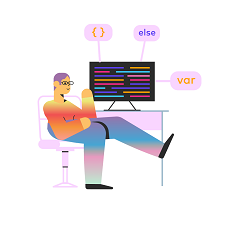
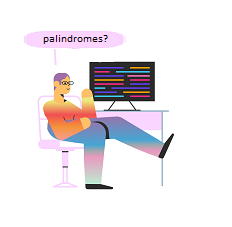
Error Tracker Modal Complete

Changed region(s): [[0.0905, 0.0925, 0.5431, 0.2775], [0.6638, 0.3084, 0.875, 0.4009], [0.5733, 0.0925, 0.694, 0.2775]]

diff --git a/portfolio/Index.html b/portfolio/Index.html
@@ -162,7 +162,7 @@
                 <div class="row portfolio-container" data-aos="fade-up" data-aos-delay="100">
 
                     <div class="col-lg-3 col-md-6 portfolio-item filter-app">
-                        <div id="error-tracker" class="portfolio-wrap project-card" data-toggle="modal" data-target="#myModal">
+                        <div id="error-tracker" class="portfolio-wrap project-card" data-toggle="modal" data-target="#error-tracker-modal">
                             <img src="Assets/Projects/404error.png" class="project-img mx-auto" />
                             <div class="portfolio-links">
                                 <p class="h4">Error Tracker</p>
@@ -202,7 +202,6 @@
             </div>
         </section>
         <!-- End Projects Section -->
-
         <!-- Start Coding Challenges Section -->
         <section id="challenges" class="portfolio challenges">
             <div class="container">
@@ -254,32 +253,31 @@
                 </div>
 
                 <!--<div class="row">
-                    
 
-                    <div class="col-lg-4 col-md-6 portfolio-item filter-card challenge">
-                        <div class="portfolio-wrap">
-                            <img src="Assets/Challenges/challenge5.png" />
-                            <div class="portfolio-links">
-                                <a href="Assets/portfolio-8.jpg" data-gall="portfolioGallery" class="venobox" title="Card 3"><i class="bx bx-plus"></i></a>
-                                <a href="portfolio-details.html" title="More Details"><i class="bx bx-link"></i></a>
-                            </div>
+
+                <div class="col-lg-4 col-md-6 portfolio-item filter-card challenge">
+                    <div class="portfolio-wrap">
+                        <img src="Assets/Challenges/challenge5.png" />
+                        <div class="portfolio-links">
+                            <a href="Assets/portfolio-8.jpg" data-gall="portfolioGallery" class="venobox" title="Card 3"><i class="bx bx-plus"></i></a>
+                            <a href="portfolio-details.html" title="More Details"><i class="bx bx-link"></i></a>
                         </div>
                     </div>
+                </div>
 
-                    <div class="col-lg-4 col-md-6 portfolio-item filter-web challenge">
-                        <div class="portfolio-wrap">
-                            <img src="Assets/Challenges/challenge6.png" />
-                            <div class="portfolio-links">
-                                <a href="Assets/portfolio-9.jpg" data-gall="portfolioGallery" class="venobox" title="Web 3"><i class="bx bx-plus"></i></a>
-                                <a href="portfolio-details.html" title="More Details"><i class="bx bx-link"></i></a>
-                            </div>
+                <div class="col-lg-4 col-md-6 portfolio-item filter-web challenge">
+                    <div class="portfolio-wrap">
+                        <img src="Assets/Challenges/challenge6.png" />
+                        <div class="portfolio-links">
+                            <a href="Assets/portfolio-9.jpg" data-gall="portfolioGallery" class="venobox" title="Web 3"><i class="bx bx-plus"></i></a>
+                            <a href="portfolio-details.html" title="More Details"><i class="bx bx-link"></i></a>
                         </div>
                     </div>
-                </div>-->
+                </div>
+            </div>-->
             </div>
         </section>
         <!-- End Coding Challenges Sections -->
-
         <!-- ======= Resume Section ======= -->
         <section id="resume" class="resume section-bg">
             <div class="container">
@@ -348,7 +346,6 @@
             </div>
         </section>
         <!-- End Resume Section -->
-
         <!-- ======= Blog Section ======= -->
         <section id="blog" class="" data-aos="fade-up" data-aos-delay="100">
             <div class="container">
@@ -360,7 +357,7 @@
                     <div class="card blog-card">
                         <a href="https://docs.google.com/document/d/1to9F7hdDQf2YOPwXxf7ndGSJADn3jFxxKGRUhGVuT_M/edit?usp=sharing" target="_blank">
                             <div class="card-body">
-                                <img src="Assets/Blog/html-illustration.png" class="blog-img mx-auto"/>
+                                <img src="Assets/Blog/html-illustration.png" class="blog-img mx-auto" />
                                 <h5 class="card-title">First Stop on the Web Dev Train</h5>
                                 <p class="card-text">
                                     The acronym stands for Hyper Text Markup Language, and it is the primary language that you will be using to create websites. It is not a programming language, but rather a “markup” language...
@@ -371,7 +368,7 @@
                     <div class="card blog-card">
                         <a href="https://docs.google.com/document/d/1maM3_3bLRbXPtMet39iItzMnZKhI-Wx2Yyxe9zGpUC0/edit?usp=sharing" target="_blank">
                             <div class="card-body">
-                                <img src="Assets/Blog/bootstrap-icon.png" class="blog-img mx-auto"/>
+                                <img src="Assets/Blog/bootstrap-icon.png" class="blog-img mx-auto" />
                                 <h5 class="card-title">Bootstrap is not about strapping boots</h5>
                                 <p class="card-text">
                                     Bootstrap is a CSS Framework for developing responsive and mobile-first websites. A framework is basically just a library of code, which someone else wrote, and which you can use...
@@ -380,46 +377,46 @@
                         </a>
                     </div>
                     <!--<div class="card blog-card">
-                        <img src="" class="card-img-top" alt="...">
-                        <div class="card-body">
-                            <h5 class="card-title">Card title</h5>
-                            <p class="card-text">This is a wider card with supporting text below as a natural lead-in to additional content. This card has even longer content than the first to show that equal height action.</p>
-                            <p class="card-text"><small class="text-muted">Last updated 3 mins ago</small></p>
-                        </div>
-                    </div>-->
-                </div>
-                <!--<div class="card-deck blog-cards">
-                    <div class="card blog-card">
-                        <a href="https://docs.google.com/document/d/1to9F7hdDQf2YOPwXxf7ndGSJADn3jFxxKGRUhGVuT_M/edit?usp=sharing" target="_blank">
-                            <div class="card-body">
-                                <img src="Assets/Blog/html-illustration.png" />
-                                <h5 class="card-title">What is HTML?</h5>
-                                <p class="card-text">
-                                    The acronym stands for Hyper Text Markup Language, and it is the primary language that you will be using to create websites. It is not a programming language, but rather a “markup” language...
-                                </p>
-                            </div>
-                        </a>
-                    </div>
-                    <div class="card blog-card">
-                        <a href="https://docs.google.com/document/d/1maM3_3bLRbXPtMet39iItzMnZKhI-Wx2Yyxe9zGpUC0/edit?usp=sharing" target="_blank">
-                            <div class="card-body">
-                                <img src="Assets/Blog/bootstrap-icon.png" />
-                                <h5 class="card-title">Bootstrap Basics</h5>
-                                <p class="card-text">
-                                    Bootstrap is a CSS Framework for developing responsive and mobile-first websites. A framework is basically just a library of code, which someone else wrote, and which you can use...
-                                </p>
-                            </div>
-                        </a>
-                    </div>
-                    <div class="card blog-card">
-                        <img src="" class="card-img-top" alt="...">
-                        <div class="card-body">
-                            <h5 class="card-title">Card title</h5>
-                            <p class="card-text">This is a wider card with supporting text below as a natural lead-in to additional content. This card has even longer content than the first to show that equal height action.</p>
-                            <p class="card-text"><small class="text-muted">Last updated 3 mins ago</small></p>
-                        </div>
+                    <img src="" class="card-img-top" alt="...">
+                    <div class="card-body">
+                        <h5 class="card-title">Card title</h5>
+                        <p class="card-text">This is a wider card with supporting text below as a natural lead-in to additional content. This card has even longer content than the first to show that equal height action.</p>
+                        <p class="card-text"><small class="text-muted">Last updated 3 mins ago</small></p>
                     </div>
                 </div>-->
+                </div>
+                <!--<div class="card-deck blog-cards">
+                <div class="card blog-card">
+                    <a href="https://docs.google.com/document/d/1to9F7hdDQf2YOPwXxf7ndGSJADn3jFxxKGRUhGVuT_M/edit?usp=sharing" target="_blank">
+                        <div class="card-body">
+                            <img src="Assets/Blog/html-illustration.png" />
+                            <h5 class="card-title">What is HTML?</h5>
+                            <p class="card-text">
+                                The acronym stands for Hyper Text Markup Language, and it is the primary language that you will be using to create websites. It is not a programming language, but rather a “markup” language...
+                            </p>
+                        </div>
+                    </a>
+                </div>
+                <div class="card blog-card">
+                    <a href="https://docs.google.com/document/d/1maM3_3bLRbXPtMet39iItzMnZKhI-Wx2Yyxe9zGpUC0/edit?usp=sharing" target="_blank">
+                        <div class="card-body">
+                            <img src="Assets/Blog/bootstrap-icon.png" />
+                            <h5 class="card-title">Bootstrap Basics</h5>
+                            <p class="card-text">
+                                Bootstrap is a CSS Framework for developing responsive and mobile-first websites. A framework is basically just a library of code, which someone else wrote, and which you can use...
+                            </p>
+                        </div>
+                    </a>
+                </div>
+                <div class="card blog-card">
+                    <img src="" class="card-img-top" alt="...">
+                    <div class="card-body">
+                        <h5 class="card-title">Card title</h5>
+                        <p class="card-text">This is a wider card with supporting text below as a natural lead-in to additional content. This card has even longer content than the first to show that equal height action.</p>
+                        <p class="card-text"><small class="text-muted">Last updated 3 mins ago</small></p>
+                    </div>
+                </div>
+            </div>-->
             </div>
         </section>
         <!-- End Blog Section -->
@@ -554,8 +551,7 @@
             </div>
         </section>
         <!-- End Contact Section -->
-
-        <!-- The Modal -->
+        <!-- Start Generic Modal -->
         <div class="modal" id="myModal">
             <div class="modal-dialog modal-xl modal-dialog-centered">
                 <div class="modal-content">
@@ -579,7 +575,50 @@
                 </div>
             </div>
         </div>
-        <!-- End Modal -->
+        <!-- End Generic Modal -->
+        <!-- Start Error Tracker Model -->
+        <div class="modal" id="error-tracker-modal">
+            <div class="modal-dialog modal-xl modal-dialog-centered">
+                <div class="modal-content">
+
+                    <!-- Modal Header -->
+                    <div class="modal-header text-center">
+                        <h4 class="modal-title">Error Tracker</h4>
+                        <button type="button" class="btn btn-danger" data-dismiss="modal">&times;</button>
+                    </div>
+
+                    <div class="modal-body">
+                        <div class="container-fluid">
+                            <div class="row project-modal">
+                                <div class="col-3">
+                                    <img src="../Assets/Projects/404error.png" />
+                                </div>
+                                <div class="col">
+                                    <div class="row project-description">
+                                        <p>
+                                            This site will track your web development process from planning, through development, and finally the product.
+                                        </p>
+                                    </div>
+                                    <div class="row project-technologies">
+                                        <b>Technologies Used:</b><pre> HTML5, CSS, JS, C#, SQL, .NET</pre>
+                                    </div>
+                                    <div class="row project-links">
+                                        <div class="col text-right">
+                                            <a class="btn btn-dark" href="#projects">The Website</a>
+                                        </div>
+                                        <div class="col text-left">
+                                            <a class="btn btn-outline-dark" href="#projects">The Code</a>
+                                        </div>                                        
+                                    </div>
+                                </div>
+                            </div>
+                        </div>
+                    </div>
+                </div>
+            </div>
+        </div>
+        <!-- End Error Tracker Model -->
+
     </main>
     <!-- End #main -->
     <!-- ======= Footer ======= -->

diff --git a/portfolio/Content/CustomCSS.css b/portfolio/Content/CustomCSS.css
@@ -106,3 +106,12 @@ a {
 .fa-arrow-circle-up {
     margin-top: 2px;
 }
+
+.project-technologies {
+    margin-bottom: 15px;
+}
+
+.project-modal {
+    display: flex;
+    align-items: center;
+}
